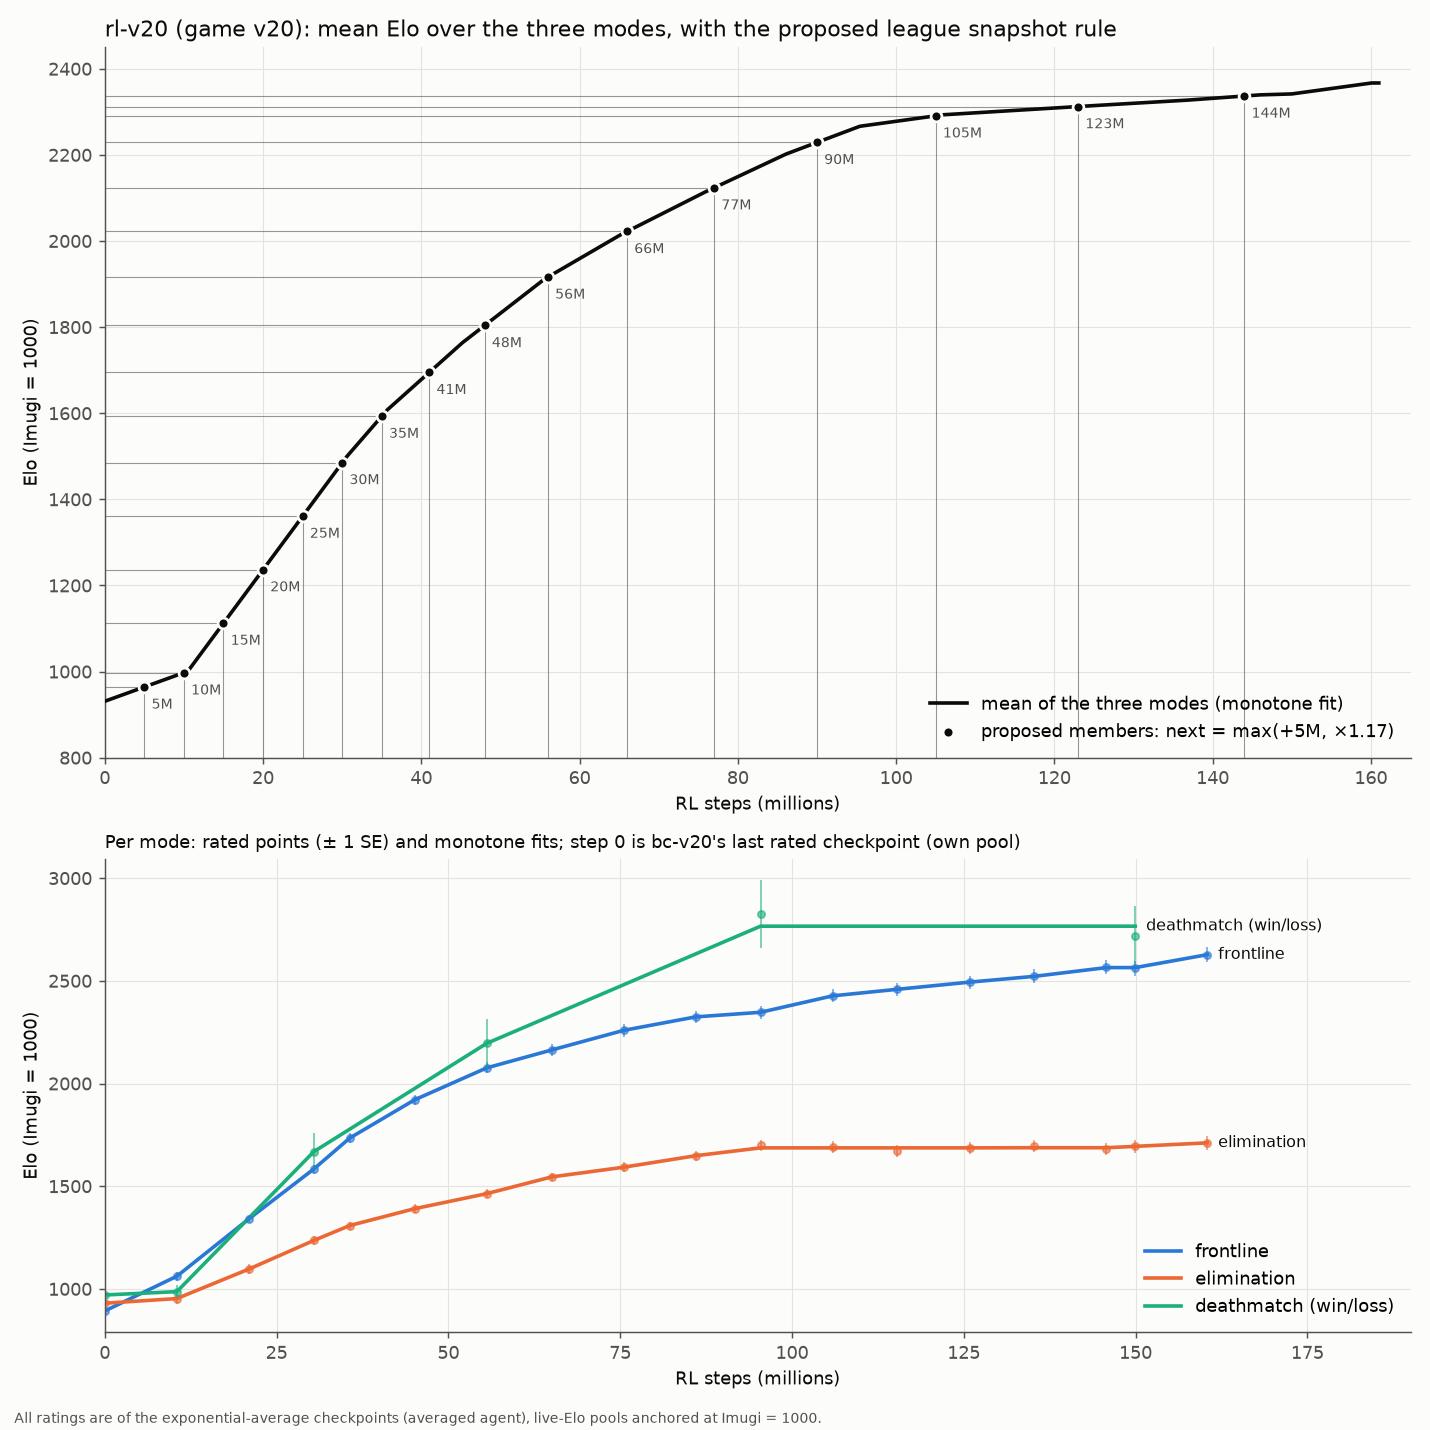
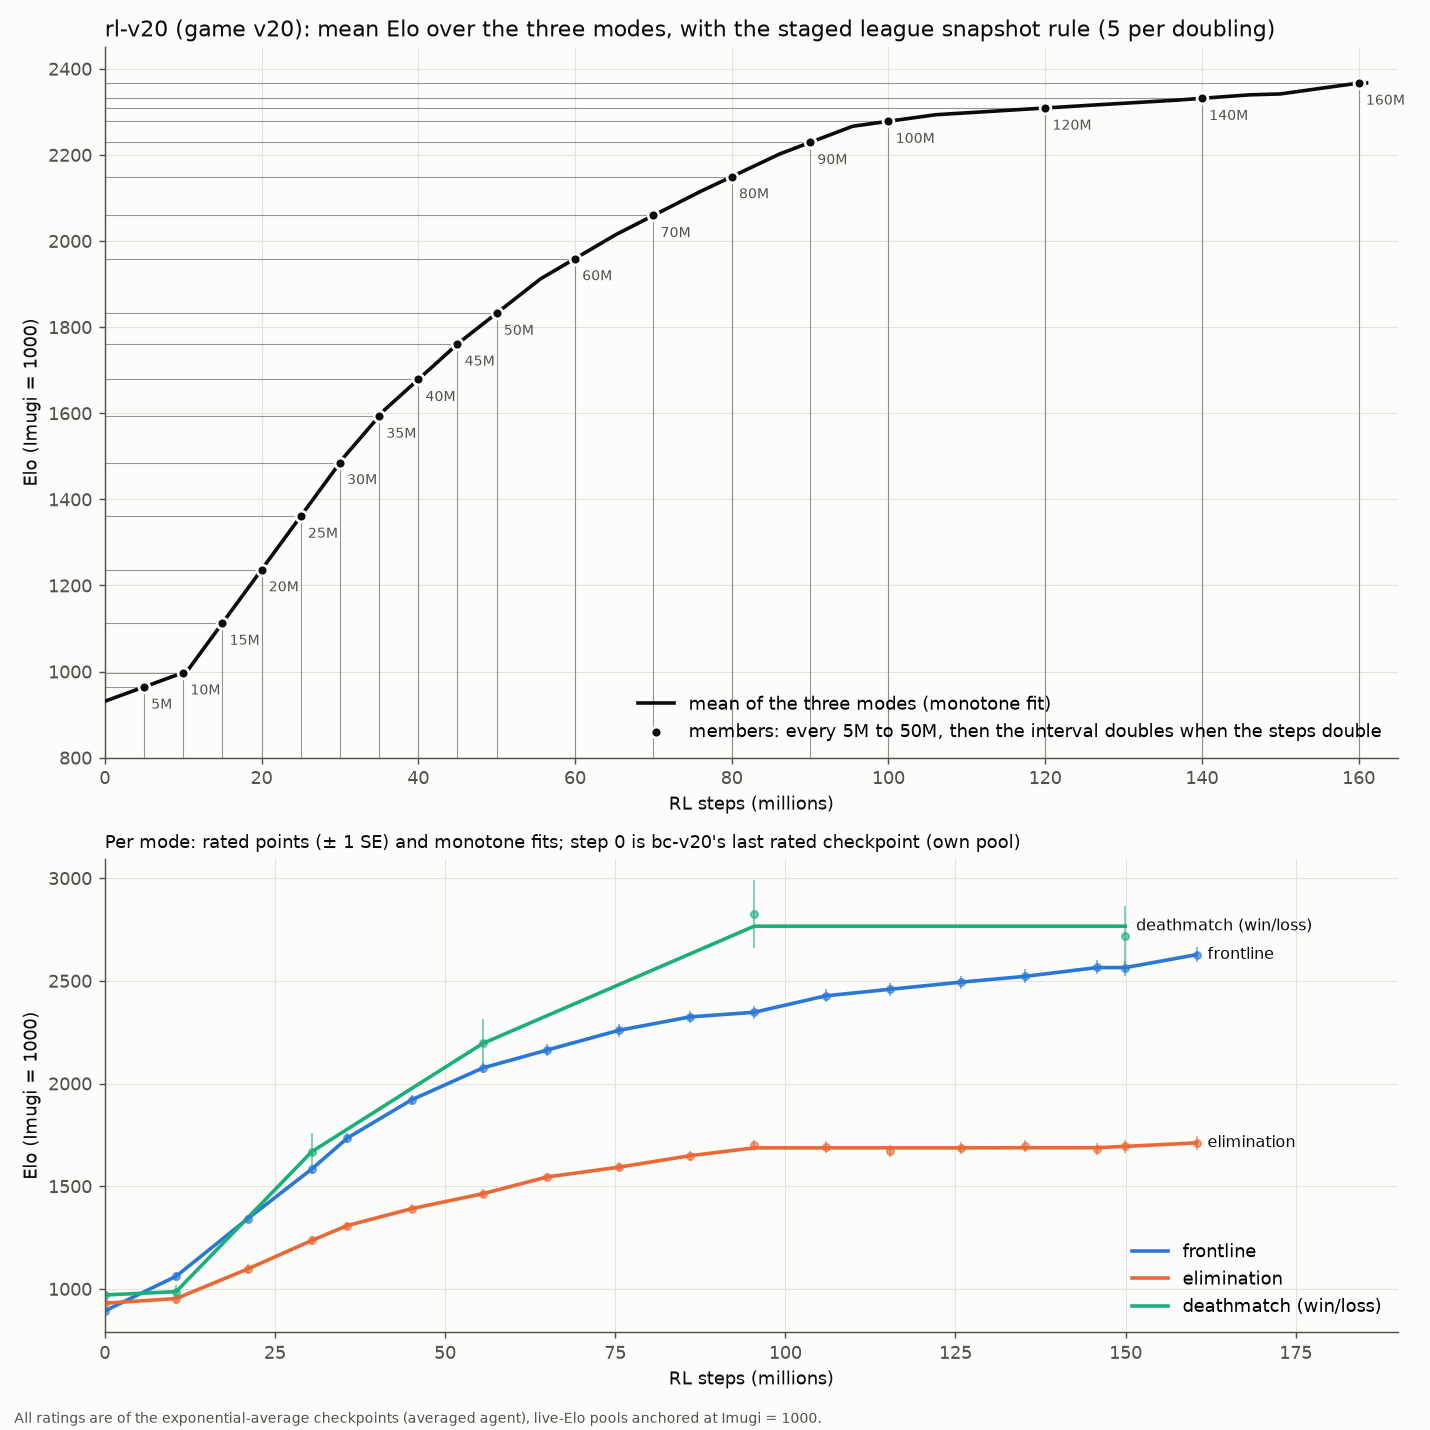
League schedule: staged doubling rules (multiples of 5), plot of 5 per doubling

diff --git a/docs/rewrite/sections/league-schedule/plot.py b/docs/rewrite/sections/league-schedule/plot.py
@@ -11,8 +11,9 @@ def rule(first=5.0, add=5.0, growth=0.17, end=500.0):
         nxt=points[-1]+max(add, growth*points[-1])
         if nxt>end: return points
         points.append(nxt)
-pts=[round(p) for p in rule()]
-show("rule max(+5M, x1.17) rounded", pts)
+from doubling import doubling
+pts=doubling(5, 50)
+show("every 5M to 50M, then the interval doubles with the steps", pts)
 print("to 500M:", pts, len(pts))
 
 INK, MUTED, GRID, SURF = "#0b0b0b", "#52514e", "#e4e3df", "#fcfcfb"
@@ -30,9 +31,9 @@ for p in inside:
     top.plot([0,p],[e,e],color=MUTED,lw=0.6,alpha=0.6,zorder=1)
     top.annotate(f"{p}M", (p,e), xytext=(4,-12), textcoords="offset points", fontsize=8, color=MUTED)
 top.scatter(inside,E(np.array(inside)),s=36,color=INK,edgecolor=SURF,linewidth=1.5,zorder=4,
-    label="proposed members: next = max(+5M, ×1.17)")
+    label="members: every 5M to 50M, then the interval doubles when the steps double")
 top.set(xlim=(0,165),ylim=(800,2450),xlabel="RL steps (millions)",ylabel="Elo (Imugi = 1000)")
-top.set_title("rl-v20 (game v20): mean Elo over the three modes, with the proposed league snapshot rule",
+top.set_title("rl-v20 (game v20): mean Elo over the three modes, with the staged league snapshot rule (5 per doubling)",
     loc="left",color=INK,fontsize=12)
 top.legend(loc="lower right",frameon=False)
 top.spines[["top","right"]].set_visible(False)

diff --git a/docs/rewrite/sections/league-schedule/doubling.py b/docs/rewrite/sections/league-schedule/doubling.py
@@ -1,0 +1,21 @@
+"""Staged schedules: every `base` M until `first_stage_end` M, then the interval doubles each
+time the steps double (k members per doubling, k = first_stage_end / (2 base))."""
+import numpy as np
+from rules import show
+
+
+def doubling(base, first_stage_end, end=500):
+    points, step, stage_end = [], base, first_stage_end
+    position = base
+    while position <= end:
+        points.append(position)
+        if position >= stage_end:
+            step, stage_end = step * 2, stage_end * 2
+        position += step
+    return points
+
+
+for base, first in ((5, 50), (5, 40), (5, 30), (5, 60)):
+    points = doubling(base, first)
+    show(f"every {base} to {first}, then doubling ({first // (2 * base)}/doubling)", points)
+    print("    to 500M:", points, len(points))

diff --git a/docs/rewrite/sections/league-schedule/results.md b/docs/rewrite/sections/league-schedule/results.md
@@ -9,3 +9,16 @@ Data: the live-Elo pools of rl-v20 (game v20), exponential-average checkpoints (
 - After 95M the mean flattens: elimination is flat from 95M, and deathmatch has only two points there (95M and 150M).
 
 **Proposed rule:** the first member at 5M, then next = previous + max(5M, 0.17 × previous). That gives 5, 10, 15, 20, 25, 30, 35, 41, 48, 56, 66, 77, 90, 105, 123, 144M, then 169, 197, 231, 270, 316, 370 and 433M (23 members to 500M). Elo gaps 10M to 90M: 101–124. Gaps 5M to 10M: 33. After 90M: 21–62.
+
+## Simpler rules, multiples of 5 (`doubling.py`; the plot shows the first)
+
+Every 5M up to a first stage, then the interval doubles each time the steps double: k members per doubling, a geometric rule of ratio 2^(1/k) snapped to multiples of 5.
+
+| rule | members to 160M | Elo gaps 10–90M | members to 500M |
+|---|---|---|---|
+| every 5M to 50M, then 10, 20, 40, 80 (5 per doubling, 2^(1/5) ≈ 1.15) | 18 | 71–127, mean 101 | 26 |
+| every 5M to 40M, then 10, 20, 40, 80 (4 per doubling, 2^(1/4) ≈ 1.19) | 16 | 85–154, mean 116 | 22 |
+| every 5M to 30M, then 10, 20, 40 (3 per doubling) | 13 | 115–193 | 18 |
+| next = previous + max(5M, 17%) (above) | 16 | 101–124 | 23 |
+
+The golden ratio (1.618) would be about one member per 300 Elo here.
